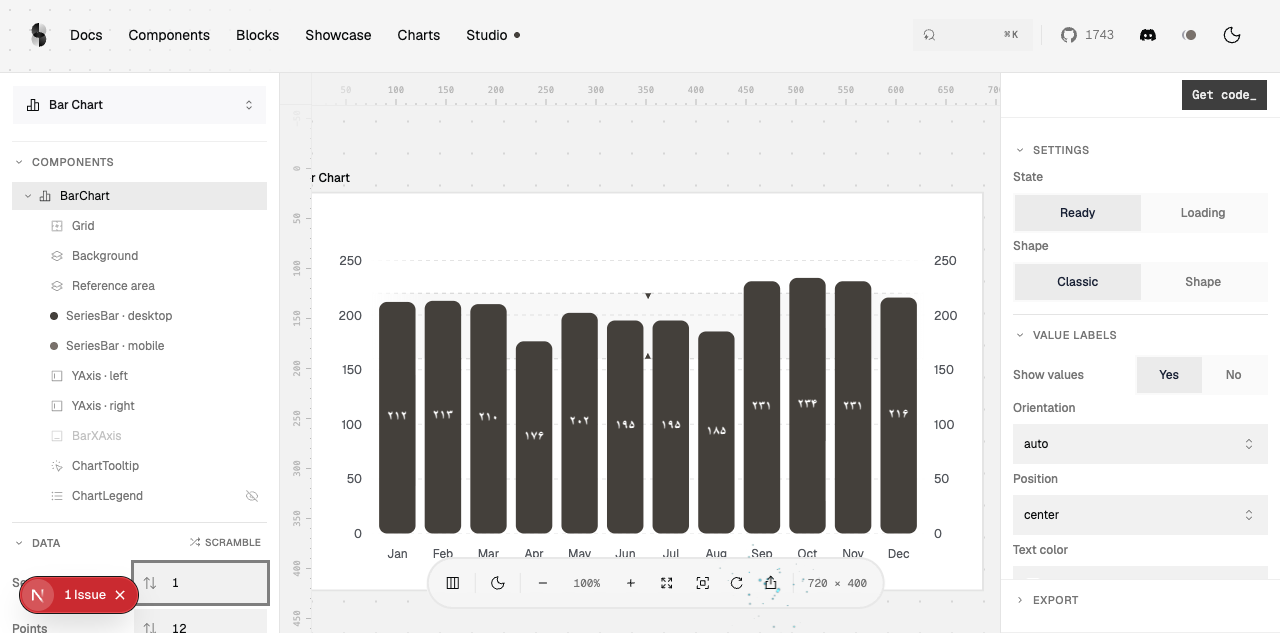
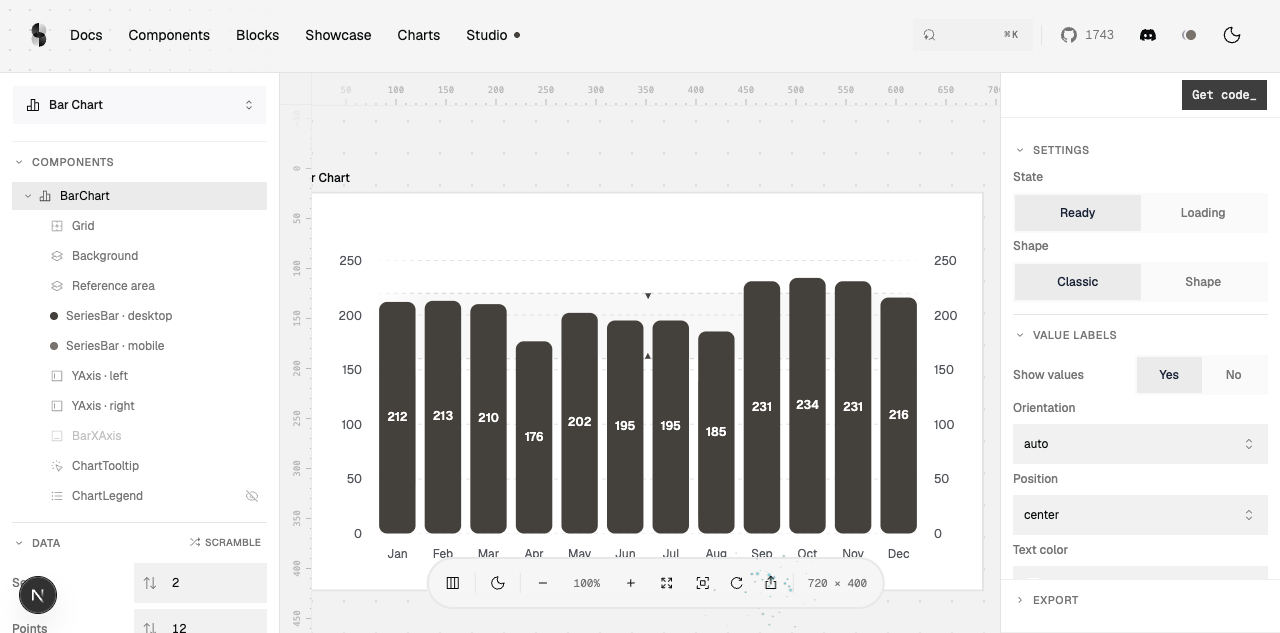
fix(charts): align area labels and default to English digits

diff --git a/packages/ui/src/charts/area-value-labels.tsx b/packages/ui/src/charts/area-value-labels.tsx
@@ -5,8 +5,10 @@ import type { AreaProps } from "./area";
 import {
   layoutAreaValueLabels,
   resolveAreaValueLabelCount,
+  resolveSharedAreaValueLabelCount,
 } from "./area-value-label-layout";
 import { chartCssVars, useChartStable } from "./chart-context";
+import { valueLabelFmt } from "./chart-formatters";
 import {
   fadeGradientStops,
   resolveFadeSides,
@@ -35,21 +37,28 @@ export function AreaValueLabels({ series }: { series: AreaProps[] }) {
     const visible = data
       .map((datum, index) => ({ datum, index, x: xScale(xAccessor(datum)) }))
       .filter(({ x }) => Number.isFinite(x) && x >= 0 && x <= innerWidth);
-    return series.flatMap((area, seriesIndex) => {
-      if (!area.showValue) {
-        return [];
-      }
-      const points = visible.filter(
-        ({ datum }) =>
-          typeof datum[area.dataKey] === "number" &&
-          Number.isFinite(datum[area.dataKey])
-      );
-      const count = resolveAreaValueLabelCount(
+    const visibleSeries = series
+      .map((area, seriesIndex) => ({
+        area,
+        seriesIndex,
+        points: visible.filter(
+          ({ datum }) =>
+            typeof datum[area.dataKey] === "number" &&
+            Number.isFinite(datum[area.dataKey])
+        ),
+      }))
+      .filter(({ area }) => area.showValue);
+    const counts = visibleSeries.map(({ area, points }) =>
+      resolveAreaValueLabelCount(
         points.length,
         innerWidth,
         area.valueLabelMinCount,
         area.valueLabelMaxCount
-      );
+      )
+    );
+    const sharedCount = resolveSharedAreaValueLabelCount(counts);
+    return visibleSeries.flatMap(({ area, seriesIndex, points }) => {
+      const count = sharedCount;
       if (count === 0) {
         return [];
       }
@@ -82,9 +91,7 @@ export function AreaValueLabels({ series }: { series: AreaProps[] }) {
             seriesIndex,
             x,
             y,
-            text:
-              area.valueLabelFormatter?.(value) ??
-              value.toLocaleString("fa-IR", { maximumFractionDigits: 0 }),
+            text: area.valueLabelFormatter?.(value) ?? valueLabelFmt(value),
           },
         ];
       });

diff --git a/packages/ui/src/charts/bar.tsx b/packages/ui/src/charts/bar.tsx
@@ -12,6 +12,7 @@ import {
   useChartStable,
   useYScale,
 } from "./chart-context";
+import { valueLabelFmt } from "./chart-formatters";
 import { useChartLegendHover } from "./chart-legend-hover";
 import { transitionWithDelay } from "./motion-utils";
 
@@ -86,7 +87,7 @@ export interface BarProps {
   minBarHeight?: number;
   /** Show the formatted value inside each bar when it fits. Default: false. */
   showValue?: boolean;
-  /** Format values displayed inside bars. Defaults to Persian integers. */
+  /** Format values displayed inside bars. Defaults to English integers. */
   valueLabelFormatter?: (value: number) => string;
   /** Text color for values displayed inside bars. Default: white. */
   valueLabelColor?: string;
@@ -237,8 +238,7 @@ const BarInner = memo(function BarInner({
   perspective = false,
   minBarHeight = 0,
   showValue = false,
-  valueLabelFormatter = (value) =>
-    value.toLocaleString("fa-IR", { maximumFractionDigits: 0 }),
+  valueLabelFormatter = valueLabelFmt,
   valueLabelColor = "white",
   valueLabelOrientation = "auto",
   valueLabelPosition = "center",

diff --git a/packages/ui/src/charts/__tests__/area-value-label-layout.test.ts b/packages/ui/src/charts/__tests__/area-value-label-layout.test.ts
@@ -3,6 +3,7 @@ import { test } from "node:test";
 import {
   layoutAreaValueLabels,
   resolveAreaValueLabelCount,
+  resolveSharedAreaValueLabelCount,
 } from "../area-value-label-layout";
 
 const box = (index: number, x: number, y = 50, width = 70) => ({
@@ -69,4 +70,7 @@ test("keeps measured labels inside the plot, collision-free and within count lim
   assert.equal(resolveAreaValueLabelCount(2, 800, 5, 10), 2);
   assert.equal(resolveAreaValueLabelCount(20, 800, Number.NaN, -1), 0);
   assert.equal(resolveAreaValueLabelCount(0, 800, 2, 5), 0);
+  assert.equal(resolveSharedAreaValueLabelCount([5, 4]), 4);
+  assert.equal(resolveSharedAreaValueLabelCount([5, 0]), 5);
+  assert.equal(resolveSharedAreaValueLabelCount([0, 0]), 0);
 });

diff --git a/packages/ui/src/charts/__tests__/chart-formatters.test.ts b/packages/ui/src/charts/__tests__/chart-formatters.test.ts
@@ -4,6 +4,7 @@ import {
   hmsTimeFmt,
   intFmt,
   shortDateFmt,
+  valueLabelFmt,
   weekdayDateFmt,
 } from "../chart-formatters";
 
@@ -71,6 +72,13 @@ describe("chart-formatters", () => {
     it("is a reusable formatter function", () => {
       const formatValue = intFmt;
       assert.equal(formatValue(1000), (1000).toLocaleString("en-US"));
+    });
+  });
+
+  describe("valueLabelFmt", () => {
+    it("uses English digits and keeps value labels to integers", () => {
+      assert.equal(valueLabelFmt(1234), "1,234");
+      assert.equal(valueLabelFmt(1234.5), "1,235");
     });
   });
 });

diff --git a/packages/ui/src/charts/area-value-label-layout.ts b/packages/ui/src/charts/area-value-label-layout.ts
@@ -82,3 +82,8 @@ export function resolveAreaValueLabelCount(
     Math.max(minimum, Math.floor(Math.max(0, width) / 48))
   );
 }
+
+export function resolveSharedAreaValueLabelCount(counts: number[]) {
+  const enabledCounts = counts.filter((count) => count > 0);
+  return enabledCounts.length ? Math.min(...enabledCounts) : 0;
+}

diff --git a/packages/ui/src/charts/chart-formatters.ts b/packages/ui/src/charts/chart-formatters.ts
@@ -18,3 +18,6 @@ export const hmsTimeFmt = new Intl.DateTimeFormat("en-US", {
 
 // `Intl.NumberFormat.prototype.format` is a bound getter — safe to extract.
 export const intFmt = new Intl.NumberFormat("en-US").format;
+export const valueLabelFmt = new Intl.NumberFormat("en-US", {
+  maximumFractionDigits: 0,
+}).format;
